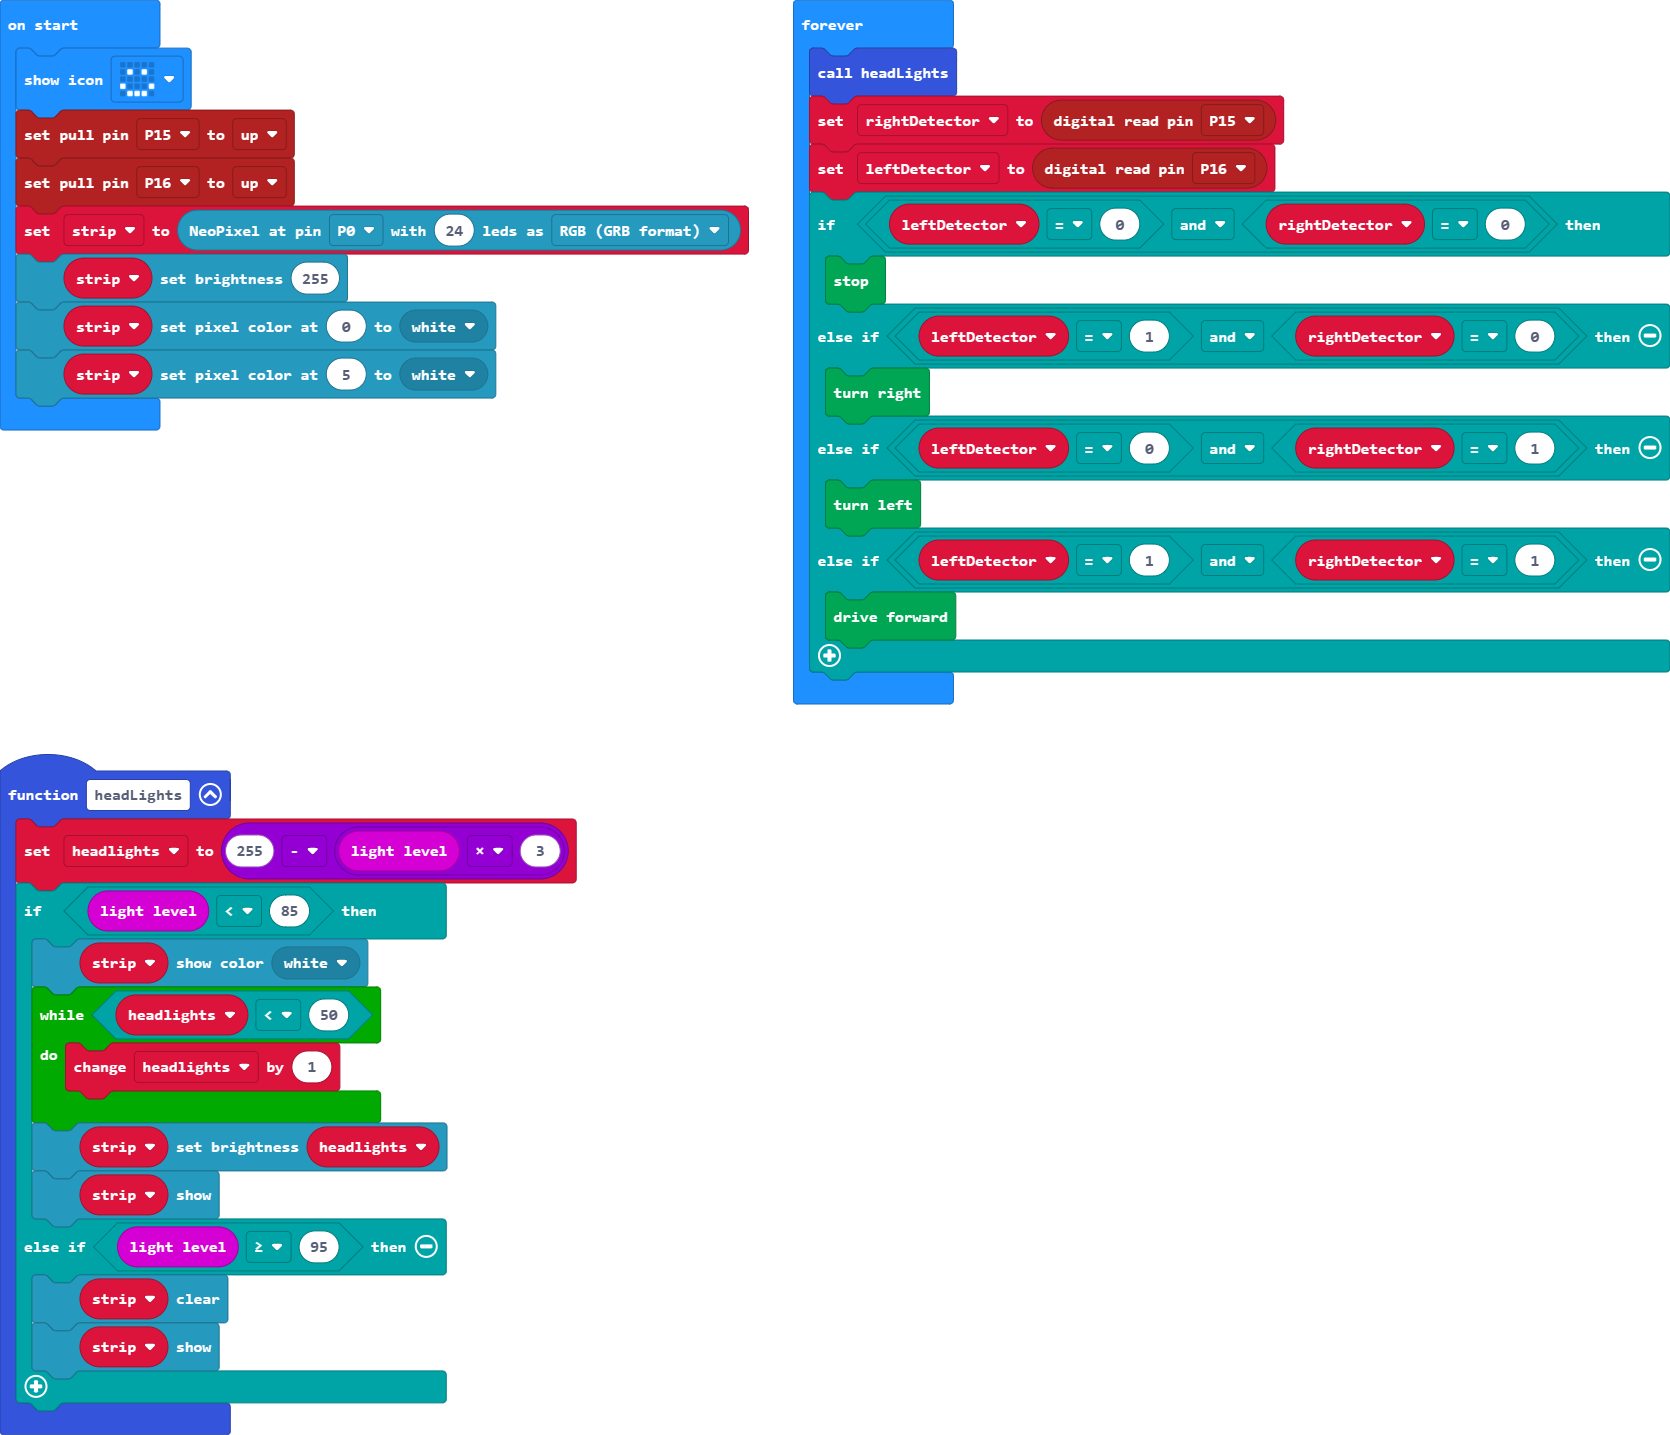
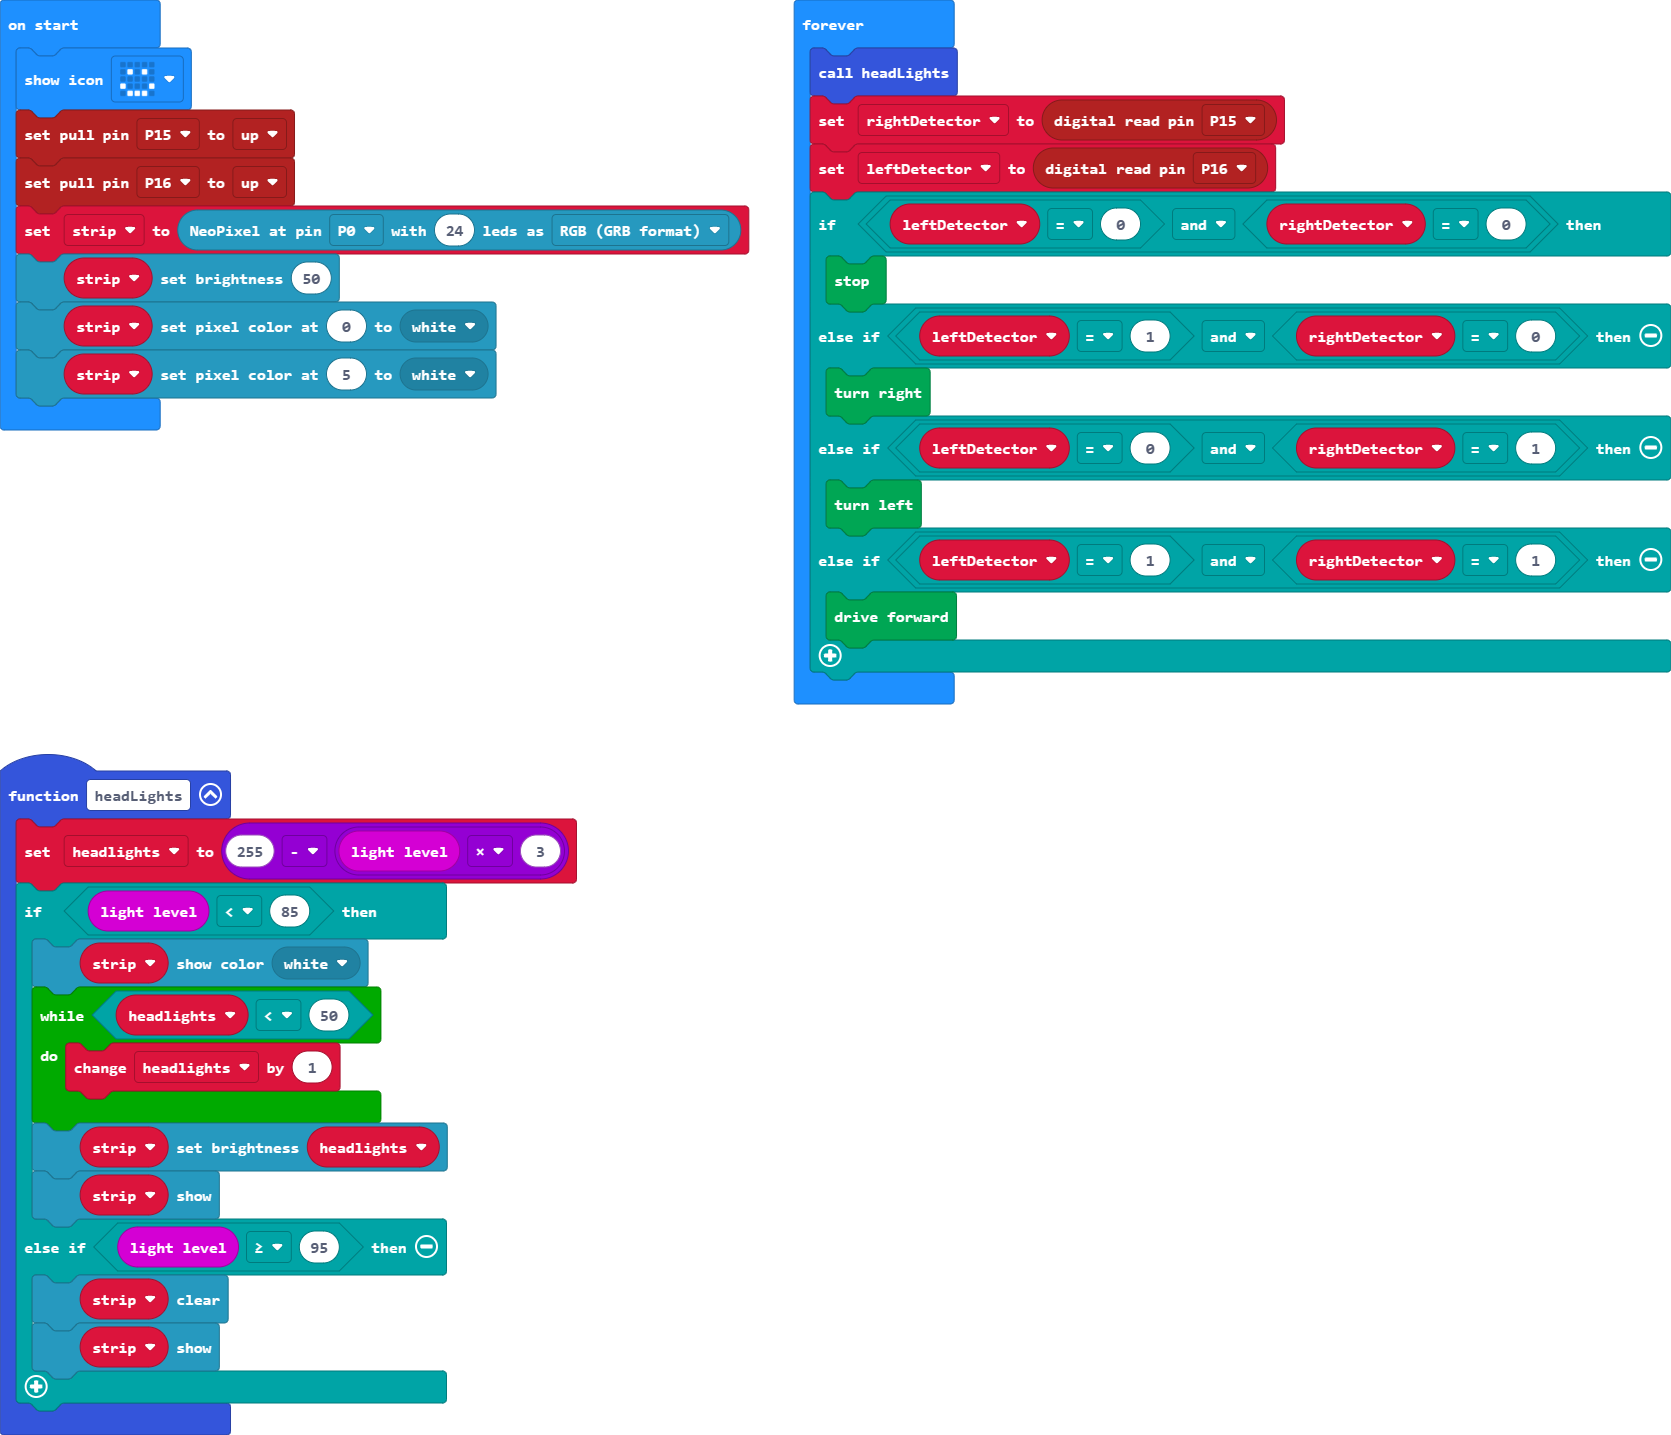
Update pxt.json, main.blocks, main.ts

diff --git a/main.ts b/main.ts
@@ -23,7 +23,7 @@ basic.showIcon(IconNames.Happy)
 pins.setPull(DigitalPin.P15, PinPullMode.PullUp)
 pins.setPull(DigitalPin.P16, PinPullMode.PullUp)
 strip = neopixel.create(DigitalPin.P0, 24, NeoPixelMode.RGB)
-strip.setBrightness(255)
+strip.setBrightness(50)
 strip.setPixelColor(0, neopixel.colors(NeoPixelColors.White))
 strip.setPixelColor(5, neopixel.colors(NeoPixelColors.White))
 basic.forever(function () {
